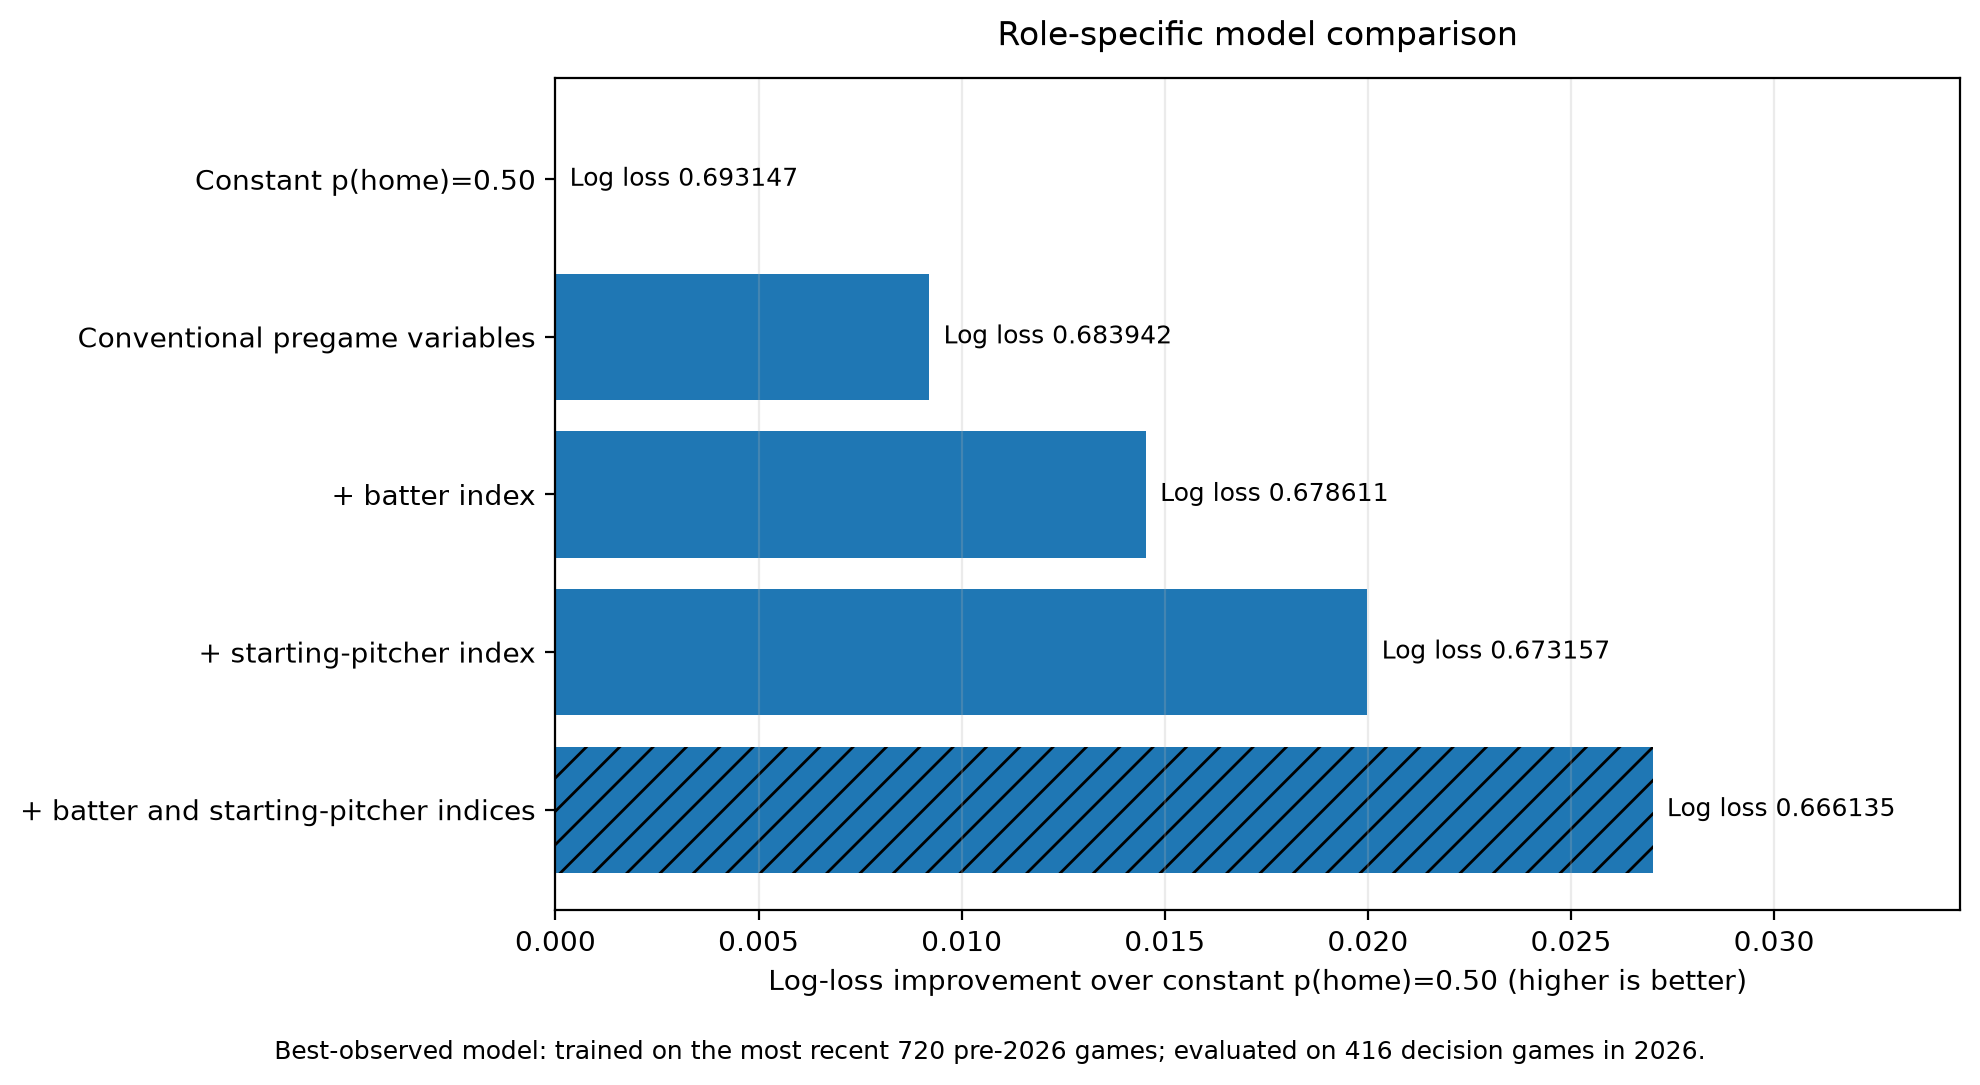
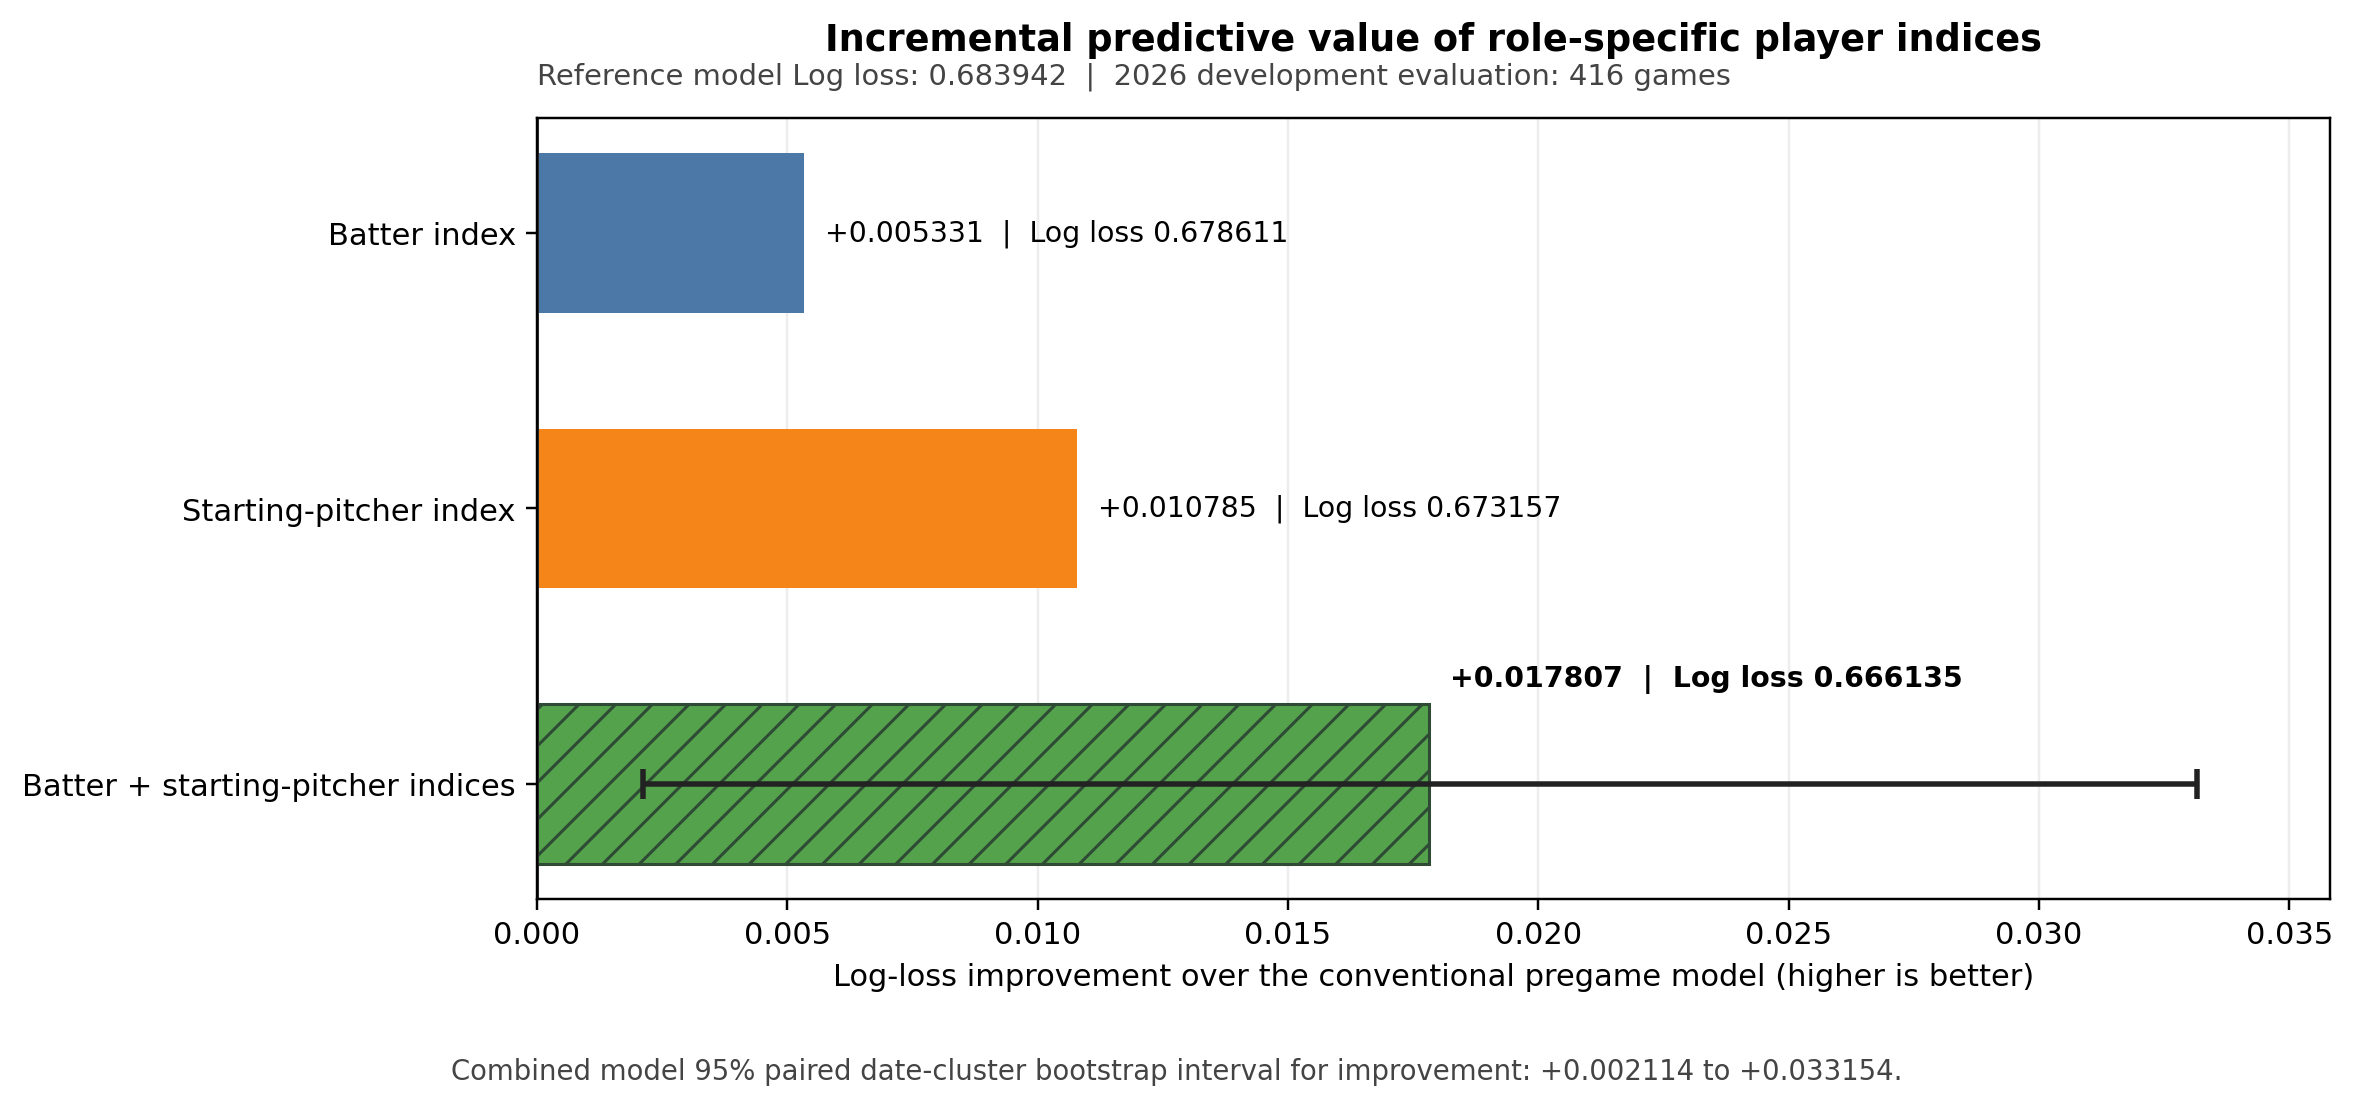
Improve role-specific model result figures and documentation

Changed region(s): [[0.0, 0.0, 1.0, 0.9124], [0.1232, 0.9429, 0.8626, 0.9733]]

diff --git a/scripts/generate_figures.py b/scripts/generate_figures.py
@@ -55,55 +55,117 @@ def _dot_plot(
 def ablation_plot() -> None:
     data = pd.read_csv(REPRODUCED / "player_index_ablation.csv")
     data = data[data["protocol"].eq("BEST_DEVELOPMENT")].copy()
-    order = [
-        "CONSTANT_0_5",
-        "BASELINE_NO_PLAYER_INDICES",
-        "BATTER_INDEX_ONLY",
-        "STARTER_INDEX_ONLY",
-        "BATTER_PLUS_STARTER_INDICES",
-    ]
-    label_map = {
-        "CONSTANT_0_5": "Constant p(home)=0.50",
-        "BASELINE_NO_PLAYER_INDICES": "Conventional pregame variables",
-        "BATTER_INDEX_ONLY": "+ batter index",
-        "STARTER_INDEX_ONLY": "+ starting-pitcher index",
-        "BATTER_PLUS_STARTER_INDICES": "+ batter and starting-pitcher indices",
-    }
-    data = data.set_index("model").loc[order].reset_index()
-    data["display"] = data["model"].map(label_map)
-    constant = float(data.loc[data["model"].eq("CONSTANT_0_5"), "log_loss"].iloc[0])
-    data["improvement"] = constant - data["log_loss"]
+    data = data.set_index("model")
 
-    fig, ax = plt.subplots(figsize=(10, 5.4))
-    bars = ax.barh(data["display"], data["improvement"])
+    baseline_log_loss = float(data.loc["BASELINE_NO_PLAYER_INDICES", "log_loss"])
+    models = pd.DataFrame(
+        {
+            "display": [
+                "Batter index",
+                "Starting-pitcher index",
+                "Batter + starting-pitcher indices",
+            ],
+            "log_loss": [
+                data.loc["BATTER_INDEX_ONLY", "log_loss"],
+                data.loc["STARTER_INDEX_ONLY", "log_loss"],
+                data.loc["BATTER_PLUS_STARTER_INDICES", "log_loss"],
+            ],
+        }
+    )
+    models["improvement"] = baseline_log_loss - models["log_loss"]
+
+    bootstrap = pd.read_csv(REPRODUCED / "player_index_ablation_bootstrap.csv")
+    combined_bootstrap = bootstrap.loc[
+        bootstrap["protocol"].eq("BEST_DEVELOPMENT")
+    ].iloc[0]
+    combined_ci_low = -float(combined_bootstrap["ci_high"])
+    combined_ci_high = -float(combined_bootstrap["ci_low"])
+
+    fig, ax = plt.subplots(figsize=(10.8, 5.2))
+    y_positions = list(range(len(models)))
+    colors = ["#4C78A8", "#F58518", "#54A24B"]
+    bars = ax.barh(
+        y_positions,
+        models["improvement"],
+        color=colors,
+        height=0.58,
+    )
     bars[-1].set_hatch("//")
+    bars[-1].set_edgecolor("#2F4B35")
+    bars[-1].set_linewidth(1.0)
+
+    combined_value = float(models.iloc[-1]["improvement"])
+    ax.errorbar(
+        combined_value,
+        y_positions[-1],
+        xerr=[
+            [combined_value - combined_ci_low],
+            [combined_ci_high - combined_value],
+        ],
+        fmt="none",
+        ecolor="#222222",
+        elinewidth=1.8,
+        capsize=5,
+        capthick=1.8,
+        zorder=4,
+    )
+
+    ax.set_yticks(y_positions, models["display"])
     ax.invert_yaxis()
-    ax.set_xlim(0, float(data["improvement"].max()) * 1.28)
-    ax.set_xlabel("Log-loss improvement over constant p(home)=0.50 (higher is better)")
-    ax.set_title("Role-specific model comparison", pad=12)
-    ax.grid(axis="x", alpha=0.25)
-    for bar, raw, improvement in zip(
-        bars, data["log_loss"], data["improvement"], strict=True
-    ):
+    ax.axvline(0, color="#333333", linewidth=1.0)
+    ax.set_xlim(0, max(combined_ci_high * 1.08, float(models["improvement"].max()) * 1.55))
+    ax.set_xlabel(
+        "Log-loss improvement over the conventional pregame model (higher is better)"
+    )
+    ax.set_title(
+        "Incremental predictive value of role-specific player indices",
+        pad=22,
+        fontweight="bold",
+    )
+    ax.text(
+        0.0,
+        1.035,
+        (
+            f"Reference model Log loss: {baseline_log_loss:.6f}  |  "
+            "2026 development evaluation: 416 games"
+        ),
+        transform=ax.transAxes,
+        fontsize=9.5,
+        color="#444444",
+        va="bottom",
+    )
+    ax.grid(axis="x", alpha=0.22)
+    ax.set_axisbelow(True)
+
+    label_offset = ax.get_xlim()[1] * 0.012
+    for index, (bar, row) in enumerate(zip(bars, models.itertuples(index=False), strict=True)):
+        value = float(row.improvement)
+        label_x = min(value + label_offset, ax.get_xlim()[1] * 0.86)
+        label_y = bar.get_y() + bar.get_height() / 2
+        if index == len(models) - 1:
+            label_y -= 0.38
         ax.text(
-            float(improvement) + 0.00035,
-            bar.get_y() + bar.get_height() / 2,
-            f"Log loss {raw:.6f}",
+            label_x,
+            label_y,
+            f"+{value:.6f}  |  Log loss {float(row.log_loss):.6f}",
             va="center",
-            fontsize=9,
+            fontsize=9.3,
+            fontweight="bold" if index == len(models) - 1 else "normal",
         )
+
     fig.text(
         0.5,
-        0.01,
+        0.015,
         (
-            "Best-observed model: trained on the most recent 720 pre-2026 games; "
-            "evaluated on 416 decision games in 2026."
+            "Combined model 95% paired date-cluster bootstrap interval for improvement: "
+            f"+{combined_ci_low:.6f} to +{combined_ci_high:.6f}."
         ),
         ha="center",
         fontsize=9,
+        color="#444444",
     )
-    plt.tight_layout(rect=(0, 0.04, 1, 1))
-    plt.savefig(FIGURES / "main_model_comparison.png", dpi=200, bbox_inches="tight")
+    plt.tight_layout(rect=(0, 0.06, 1, 0.97))
+    plt.savefig(FIGURES / "main_model_comparison.png", dpi=220, bbox_inches="tight")
     plt.close()
 
     bullpen_2025 = pd.read_csv(
@@ -114,66 +176,79 @@ def ablation_plot() -> None:
     ).set_index("method")
     bullpen = pd.DataFrame(
         {
-            "evaluation": ["2025 temporal OOF (698 games)", "2026 post-hoc (416 games)"],
-            "starter_stack": [
+            "evaluation": [
+                "2025 temporal OOF (698 games)\n0.669483 → 0.674253",
+                "2026 post-hoc (416 games)\n0.667785 → 0.668898",
+            ],
+            "reference": [
                 bullpen_2025.loc["LOGIT_STACK_V7_STARTER_C0.1", "log_loss"],
                 bullpen_2026.loc["LOGIT_STACK_V7_STARTER_C0.1", "log_loss"],
             ],
-            "plus_player_relief_index": [
+            "plus_relief_index": [
                 bullpen_2025.loc["LOGIT_STACK_V7_PLUS_BULLPEN_C0.01", "log_loss"],
                 bullpen_2026.loc["LOGIT_STACK_V7_PLUS_BULLPEN_C0.01", "log_loss"],
             ],
         }
     )
+    bullpen["delta"] = bullpen["plus_relief_index"] - bullpen["reference"]
 
-    fig, ax = plt.subplots(figsize=(10, 4.2))
-    for idx, row in bullpen.iterrows():
-        ax.plot(
-            [row["starter_stack"], row["plus_player_relief_index"]],
-            [idx, idx],
-            marker="o",
-            linewidth=2.5,
-        )
-        delta = row["plus_player_relief_index"] - row["starter_stack"]
+    fig, ax = plt.subplots(figsize=(10.8, 4.6))
+    y_positions = list(range(len(bullpen)))
+    bars = ax.barh(
+        y_positions,
+        bullpen["delta"],
+        color=["#E45756", "#F28E2B"],
+        height=0.5,
+    )
+    ax.set_yticks(y_positions, bullpen["evaluation"])
+    ax.invert_yaxis()
+    ax.axvline(0, color="#333333", linewidth=1.1)
+    ax.set_xlim(0, float(bullpen["delta"].max()) * 1.52)
+    ax.set_xlabel(
+        "Increase in Log loss after adding the relief-pitcher index (positive is worse)"
+    )
+    ax.set_title(
+        "Player-level relief-pitcher index did not improve prediction",
+        pad=22,
+        fontweight="bold",
+    )
+    ax.text(
+        0.0,
+        1.04,
+        "V8 evaluation results; each bar shows the performance change after adding the index.",
+        transform=ax.transAxes,
+        fontsize=9.5,
+        color="#444444",
+        va="bottom",
+    )
+    ax.grid(axis="x", alpha=0.22)
+    ax.set_axisbelow(True)
+
+    label_offset = ax.get_xlim()[1] * 0.015
+    for bar, row in zip(bars, bullpen.itertuples(index=False), strict=True):
+        delta = float(row.delta)
         ax.text(
-            float(row["starter_stack"]) - 0.00012,
-            idx - 0.12,
-            f"{row['starter_stack']:.6f}",
-            ha="right",
-            fontsize=9,
+            delta + label_offset,
+            bar.get_y() + bar.get_height() / 2,
+            f"Δ +{delta:.6f}  (worse)",
+            va="center",
+            fontsize=9.5,
+            fontweight="bold",
         )
-        ax.text(
-            float(row["plus_player_relief_index"]) + 0.00012,
-            idx - 0.12,
-            f"{row['plus_player_relief_index']:.6f}",
-            ha="left",
-            fontsize=9,
-        )
-        ax.text(
-            (float(row["starter_stack"]) + float(row["plus_player_relief_index"])) / 2,
-            idx + 0.18,
-            f"worse by {delta:+.6f}",
-            ha="center",
-            fontsize=9,
-        )
-    ax.set_yticks(range(len(bullpen)), bullpen["evaluation"])
-    ax.set_ylim(1.45, -0.45)
-    ax.set_xlim(0.6665, 0.6758)
-    ax.set_xlabel("Log loss (lower is better)")
-    ax.set_title("Player-level relief-pitcher index was tested and not retained", pad=18)
-    ax.grid(axis="x", alpha=0.25)
+
     fig.text(
         0.5,
-        0.01,
+        0.015,
         (
-            "Historical V8 protocol; displayed separately from V12 to avoid an "
-            "invalid cross-protocol ranking."
+            "Reported separately because the historical V8 and V12 protocols are not "
+            "directly comparable."
         ),
         ha="center",
         fontsize=9,
+        color="#444444",
     )
-    plt.tight_layout(rect=(0, 0.08, 1, 0.98))
-    plt.savefig(FIGURES / "relief_index_negative_result.png", dpi=200, bbox_inches="tight")
+    plt.tight_layout(rect=(0, 0.07, 1, 0.96))
+    plt.savefig(FIGURES / "relief_index_negative_result.png", dpi=220, bbox_inches="tight")
     plt.close()
 
 

diff --git a/README.ko.md b/README.ko.md
@@ -46,7 +46,7 @@
 
 기존 선수 지표 없는 모델 대비 결합 모델의 Log loss 차이는 `−0.017807`이며, 날짜 단위 paired bootstrap 95% 구간은 `[-0.033154, -0.002114]`, 개선 확률은 `98.69%`였다.
 
-V12의 기존 경기 전 변수에는 이미 **팀 단위 불펜 및 선발 이후 실점 방지 변수**가 들어 있다. 이와 별도로 V8에서 **선수 단위 불펜 활약도 지표**를 시험했지만 채택하지 않았다. 2025 temporal OOF에서는 Log loss가 `0.669483`에서 `0.674253`으로, 2026 post-hoc에서는 `0.667785`에서 `0.668898`로 악화됐다. V8은 V12와 평가 protocol이 다르므로 같은 순위표에 섞지 않고 별도 비교로 제시한다.
+V12 주요 모델은 **팀 단위 불펜 전력과 선발 이후 실점 방지 정보**를 경기 전 변수로 이미 반영한다. 선수 단위 구원투수 지표는 이전 V8 protocol에서 별도로 평가했다. 해당 지표를 추가하자 2025 temporal OOF의 Log loss가 `0.669483`에서 `0.674253`으로, 2026 post-hoc 평가에서는 `0.667785`에서 `0.668898`로 악화돼 주요 모델에 채택하지 않았다. V8과 V12는 서로 다른 historical protocol을 사용하므로, 이 결과는 V12 역할별 ablation과 직접 순위를 매기지 않고 별도로 보고한다. 자세한 진단과 전체 실패 실험 기록은 [`docs/failure_root_cause_ledger.md`](docs/failure_root_cause_ledger.md)에서 확인할 수 있다.
 
 ![핵심 모델 비교](reports/figures/main_model_comparison.png)
 

diff --git a/README.md b/README.md
@@ -51,7 +51,7 @@ For the combined model versus the conventional no-player-index model:
 - 95% paired date-cluster bootstrap interval: **[−0.033154, −0.002114]**
 - Probability of lower Log loss: **98.69%**
 
-The V12 conventional block already contains **team-level bullpen and post-starter run-prevention variables**. A separate **player-level relief-pitcher index** was tested earlier in V8 and was not retained: Log loss worsened from `0.669483` to `0.674253` in 2025 temporal OOF and from `0.667785` to `0.668898` in 2026 post-hoc evaluation. Because V8 used a different historical protocol, that result is shown separately rather than inserted into the V12 ranking table.
+The primary V12 specification already represents bullpen strength through **team-level pregame measures of bullpen and post-starter run prevention**. Player-level relief pitching was evaluated separately under the earlier V8 protocol. Adding the relief-pitcher index increased Log loss from `0.669483` to `0.674253` in the 2025 temporal OOF evaluation and from `0.667785` to `0.668898` in the 2026 post-hoc evaluation, so the index was not retained. Because V8 and V12 used different historical protocols, the V8 result is reported separately rather than ranked with the V12 role ablations. For detailed diagnostics and the broader record of unsuccessful experiments, see the [failure and root-cause ledger](docs/failure_root_cause_ledger.md).
 
 ![Main model comparison](reports/figures/main_model_comparison.png)
 
